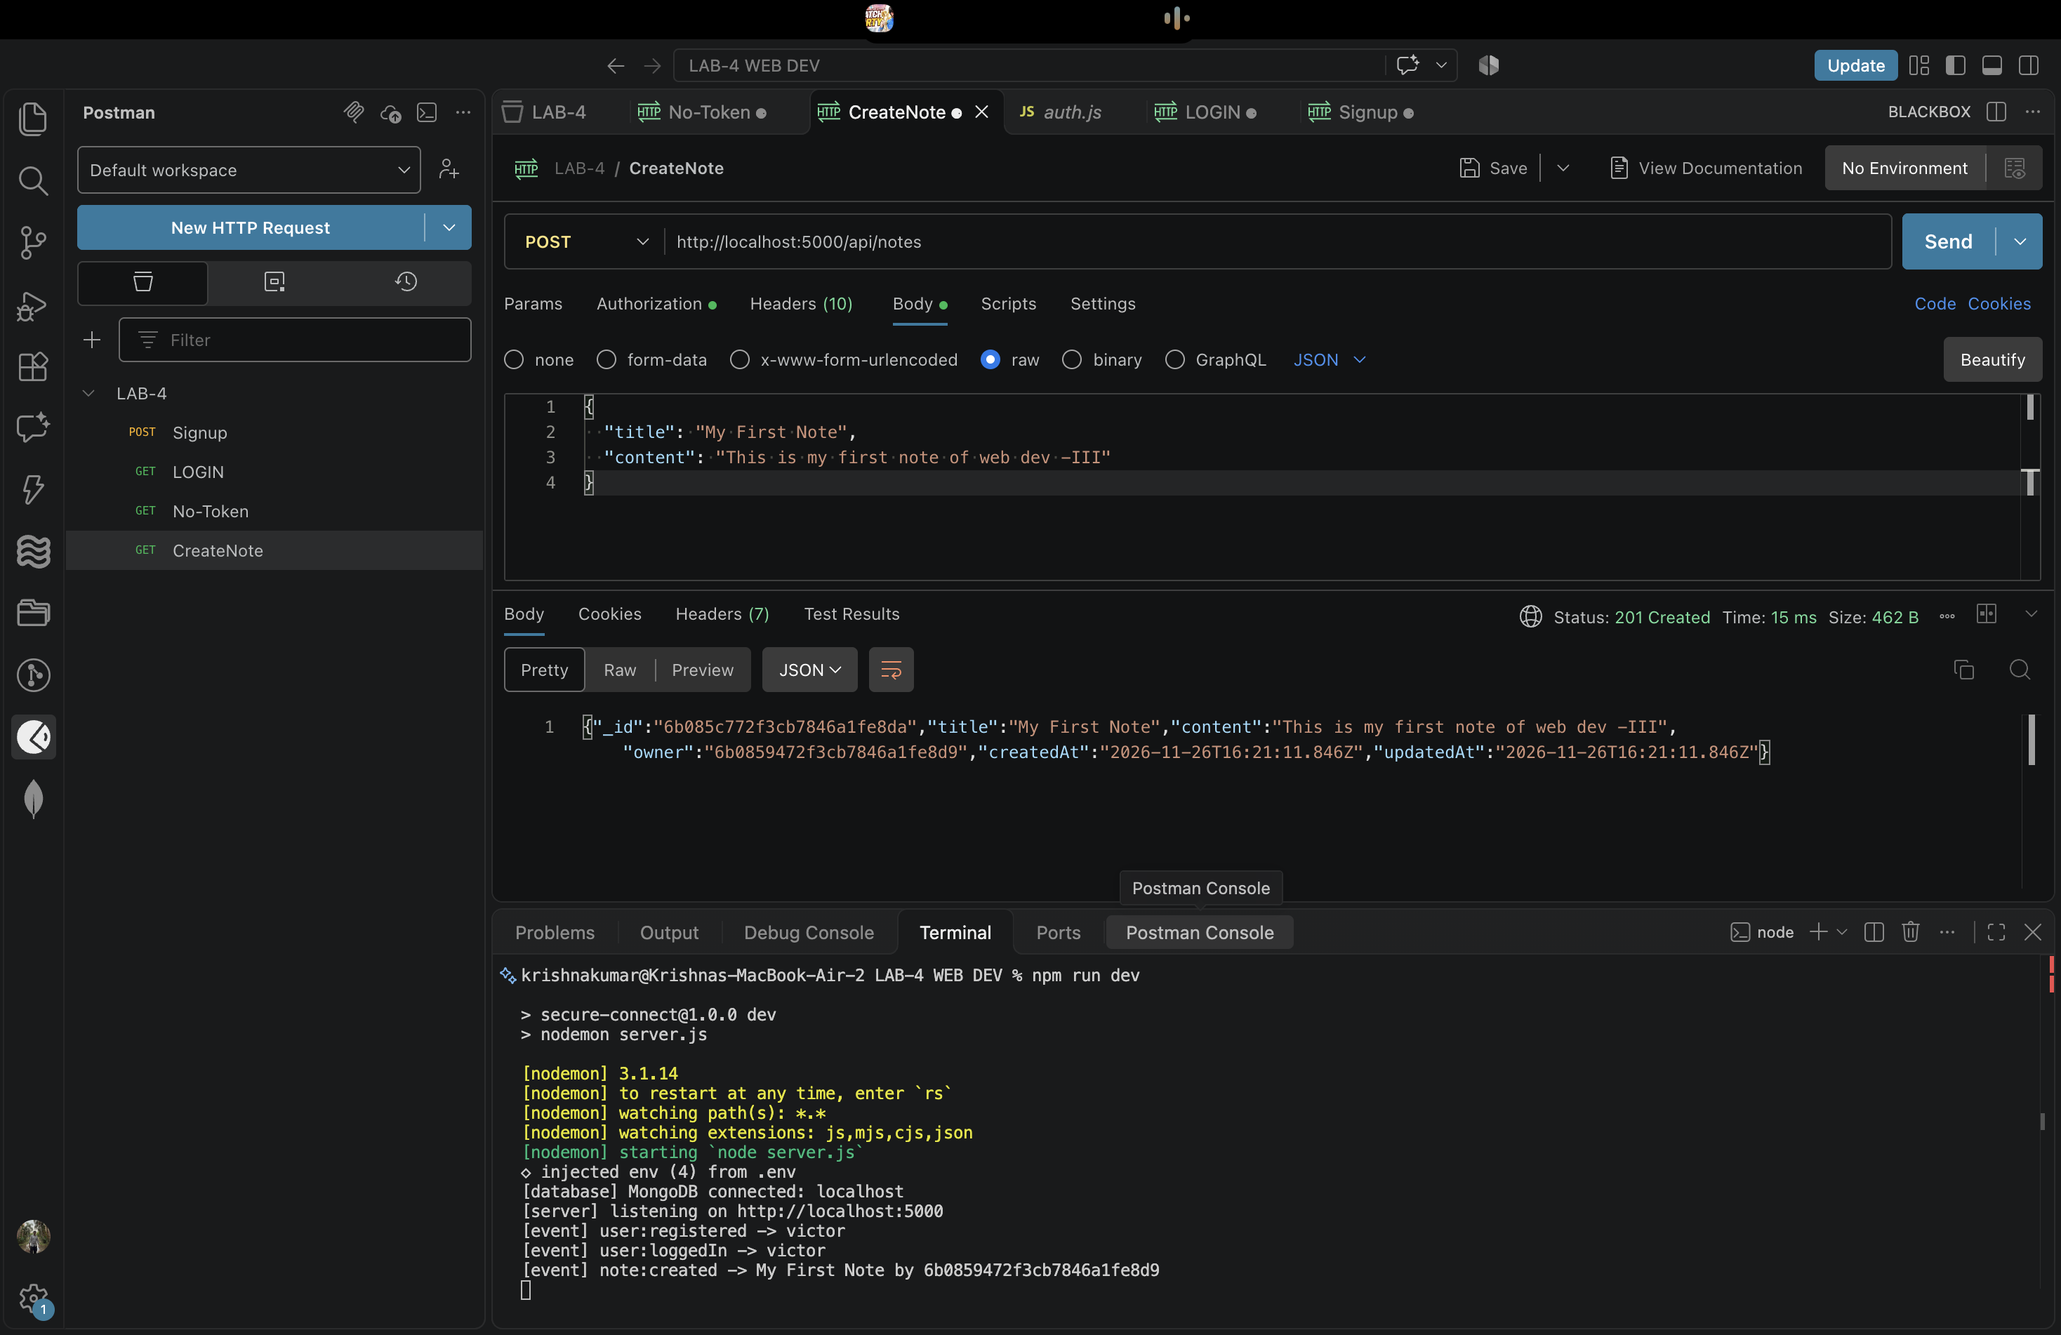
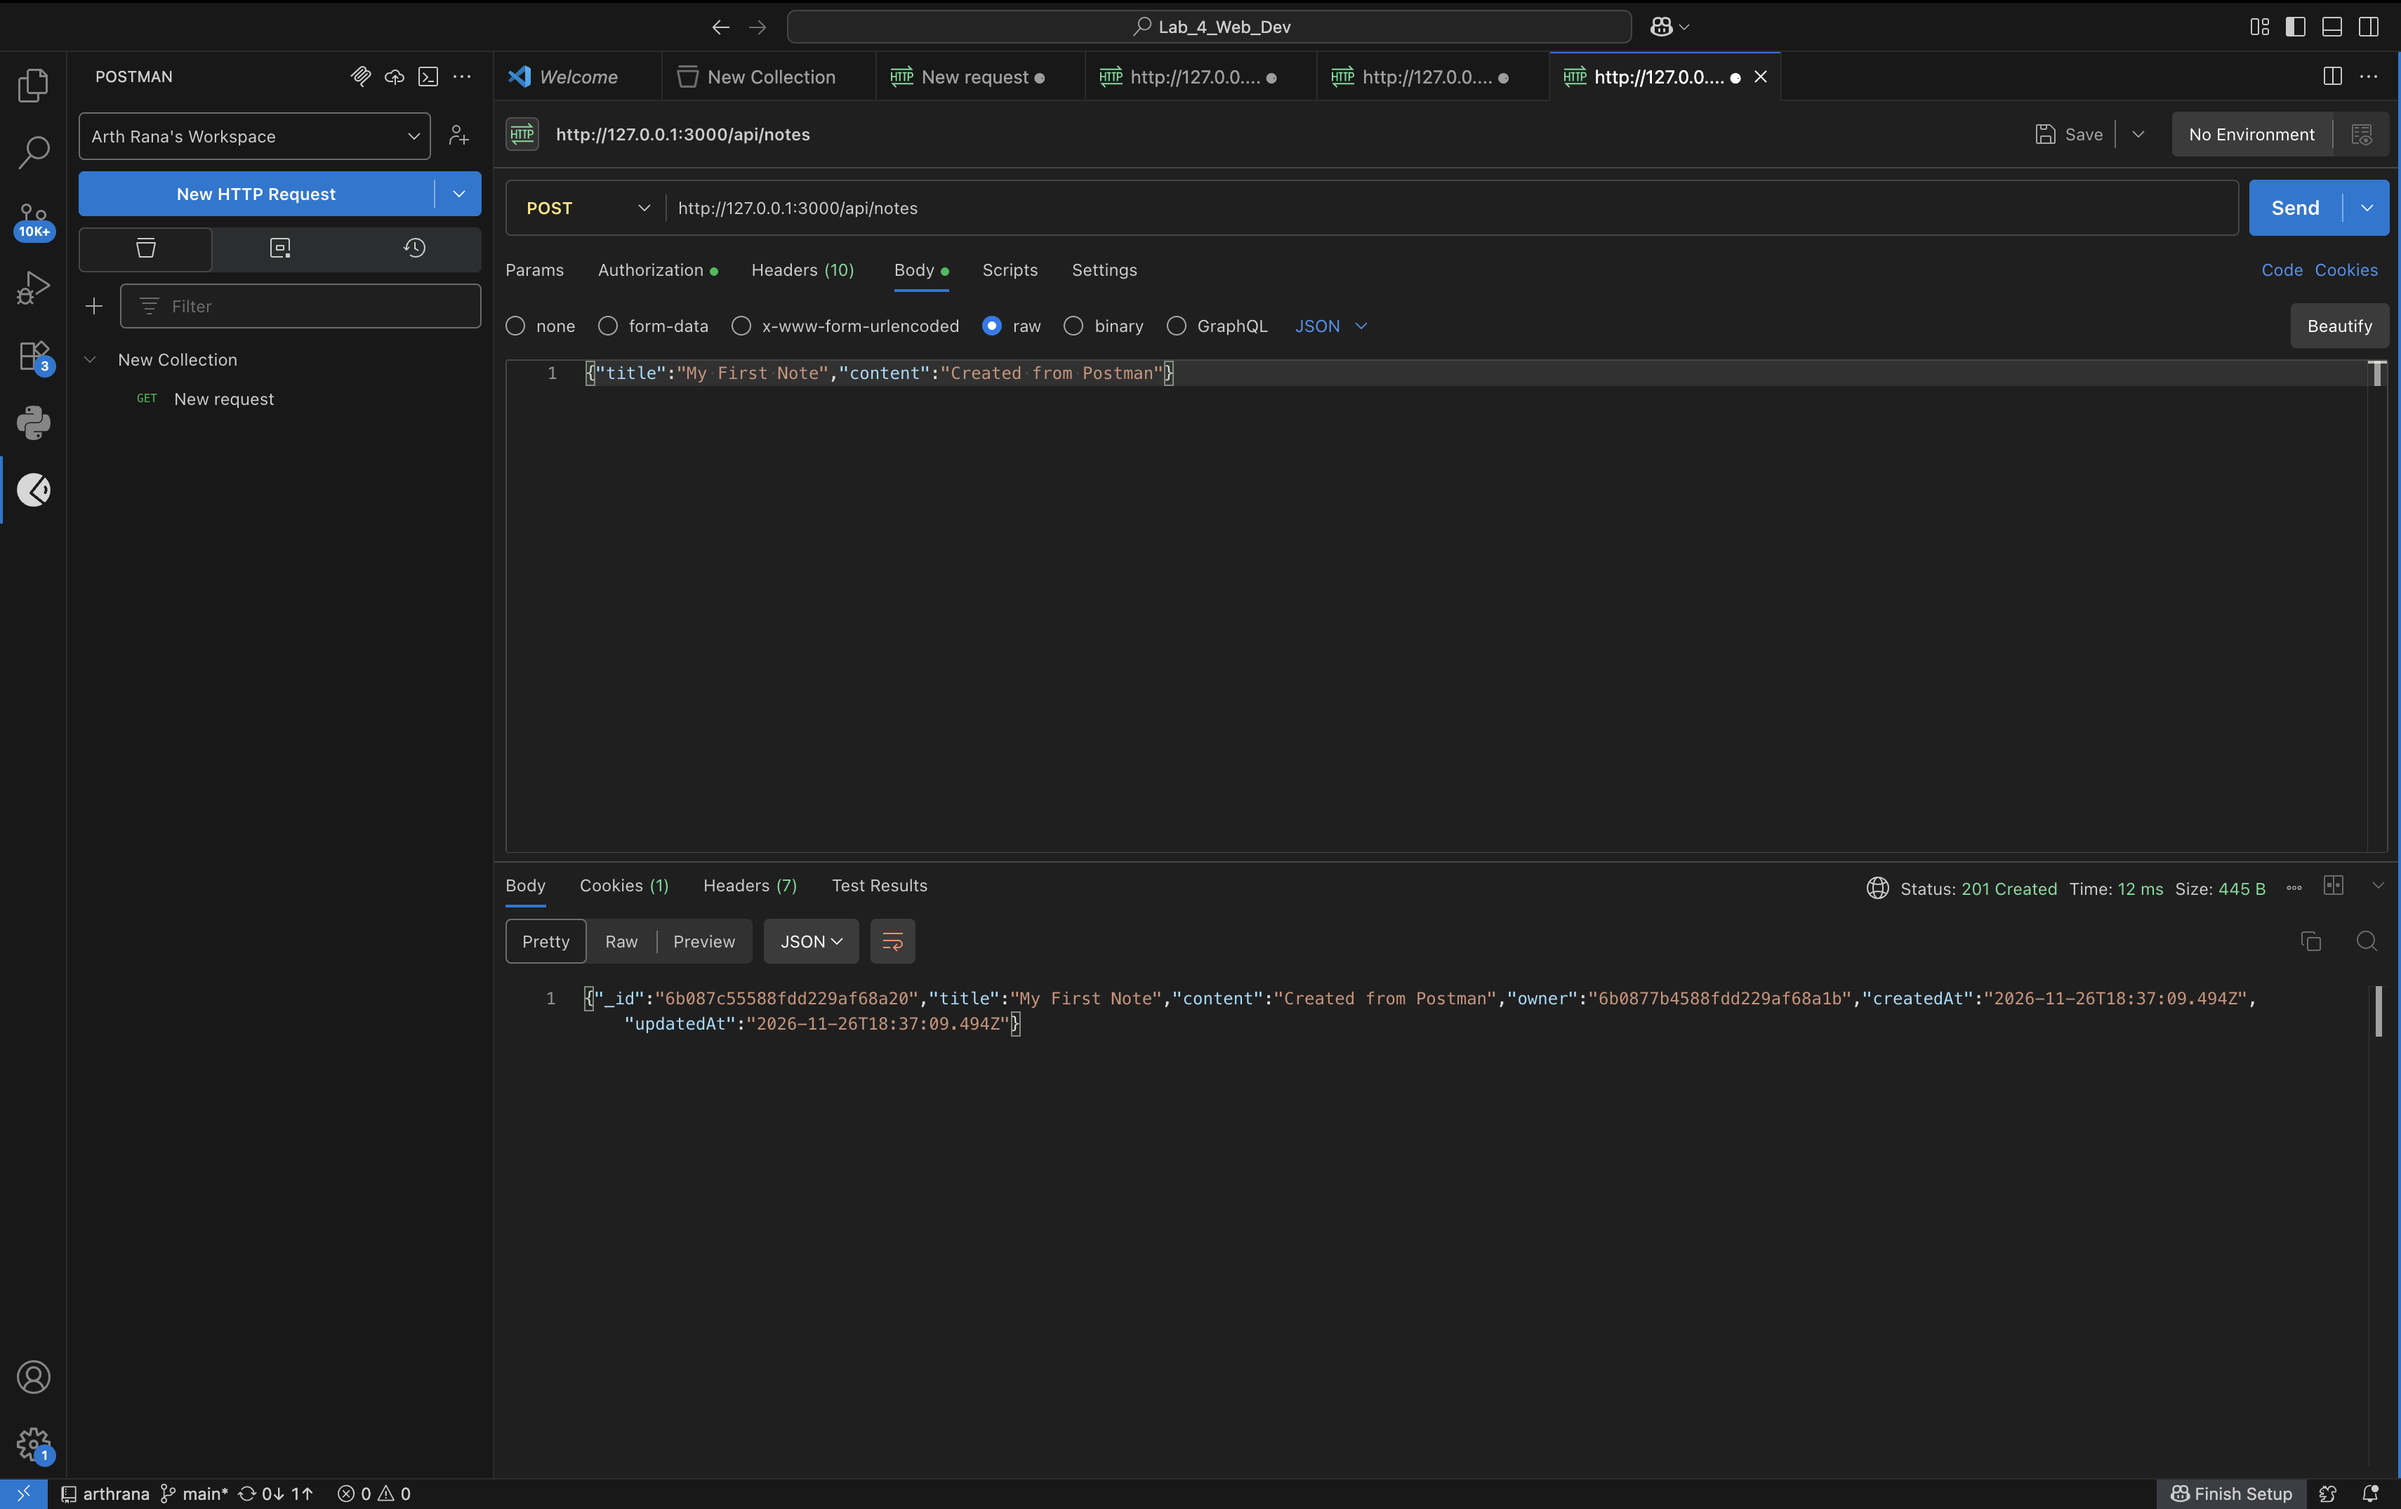
Document secure notes API and add Postman evidence

diff --git a/middleware/auth.js b/middleware/auth.js
@@ -34,8 +34,14 @@ const verifyToken = (req, res, next) => {
 
   // 1. Check Authorization header
   const authHeader = req.headers.authorization || req.headers['authorization'];
-  if (authHeader && authHeader.startsWith('Bearer ')) {
-    token = authHeader.substring(7).trim();
+  if (authHeader) {
+    // Postman users sometimes paste "Bearer <token>" into the Bearer Token
+    // field, which adds a second Bearer prefix. Strip repeated prefixes while
+    // still requiring a Bearer authorization scheme.
+    const match = authHeader.trim().match(/^(?:Bearer\s+)+(.+)$/i);
+    if (match) {
+      token = match[1].trim().replace(/^(['"])(.*)\1$/, '$2').trim();
+    }
   }
 
   // 2. Fallback to cookie "token" (parsed manually)

diff --git a/README.md b/README.md
@@ -1,19 +1,44 @@
-## Output Screenshots
+# Secure Connect
 
-### 1. Signup (201 Created)
-![Signup](ScreenShots/SIGNUP.png)
+This is my Lab 4 web development project. It has a Node.js API for signing up, logging in, and managing notes. Signed-in users get a token, and the API checks that token before showing private data or creating notes. The project also includes a small Socket.IO chat.
 
-### 2. Login (200 OK, JWT token)
-![Login](ScreenShots/LOGIN.png)
+## Run it on your computer
 
-### 3. Notes API without token (403 Forbidden)
-![Notes without token](ScreenShots/NOTOKEN.png)
+You’ll need Node.js and MongoDB running. From this folder:
 
-### 4. Create Note with token (201 Created)
-![Create note](ScreenShots/NOTES.png)
+1. Install the packages with `npm install`.
+2. Add a `.env` file with your MongoDB connection and a private JWT secret:
 
-### 5. Get all notes (200 OK)
-![Get notes](ScreenShots/ALLNOTES.png)
+   ```env
+   PORT=3000
+   MONGO_URI=mongodb://127.0.0.1:27017/secure-connect
+   JWT_SECRET=put-a-long-random-secret-here
+   ```
 
-### 6. Real-time chat (Socket.IO console)
-![Chat console](ScreenShots/SOCKET.png)
+3. Start the server with `npm start`.
+4. Open `http://127.0.0.1:3000` to see the chat page.
+
+Keep `.env` private; don’t upload your real database URL or JWT secret.
+
+## Try the API in Postman
+
+Import [`postman/secure-connect.postman_collection.json`](postman/secure-connect.postman_collection.json). The collection uses `http://127.0.0.1:3000` by default. Start with Signup, then Login; the collection saves the login token for the requests that need it. Create Note saves its ID for the later note requests.
+
+The Admin request needs an admin account. To promote an account, run `node scripts/makeAdmin.js your-email@example.com` from this folder, then log in again.
+
+## Screenshots
+
+These are the Postman results from running the API locally:
+
+| What it shows | Result |
+| --- | --- |
+| [Signup](ScreenShots/SIGNUP.png) | Account created |
+| [Profile](ScreenShots/PROFILE.png) | Signed-in user details |
+| [Notes without a token](ScreenShots/NOTOKEN.png) | Access denied as expected |
+| [Create a note](ScreenShots/NOTES.png) | Note created |
+| [All notes](ScreenShots/ALLNOTES.png) | Notes list returned |
+| [Get one note](ScreenShots/GETNOTE.png) | Note returned |
+| [Delete a note](ScreenShots/DELETE.png) | Note deleted |
+| [Logout](ScreenShots/LOGOUT.png) | Logged out |
+
+The chat uses Socket.IO, so it isn’t included in the REST Postman collection.
